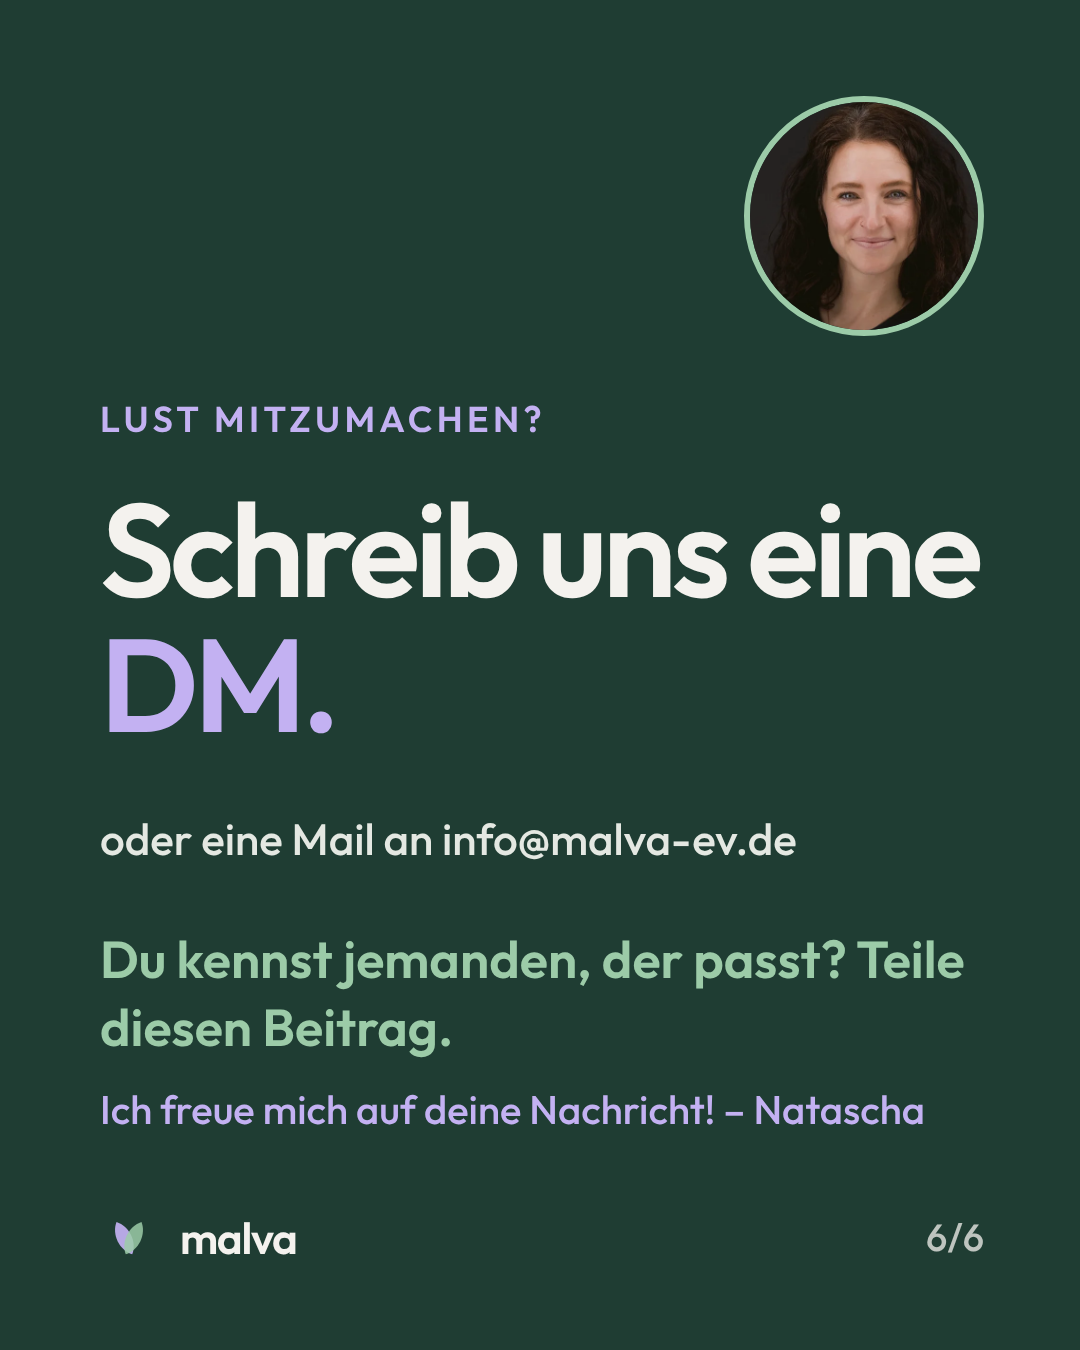
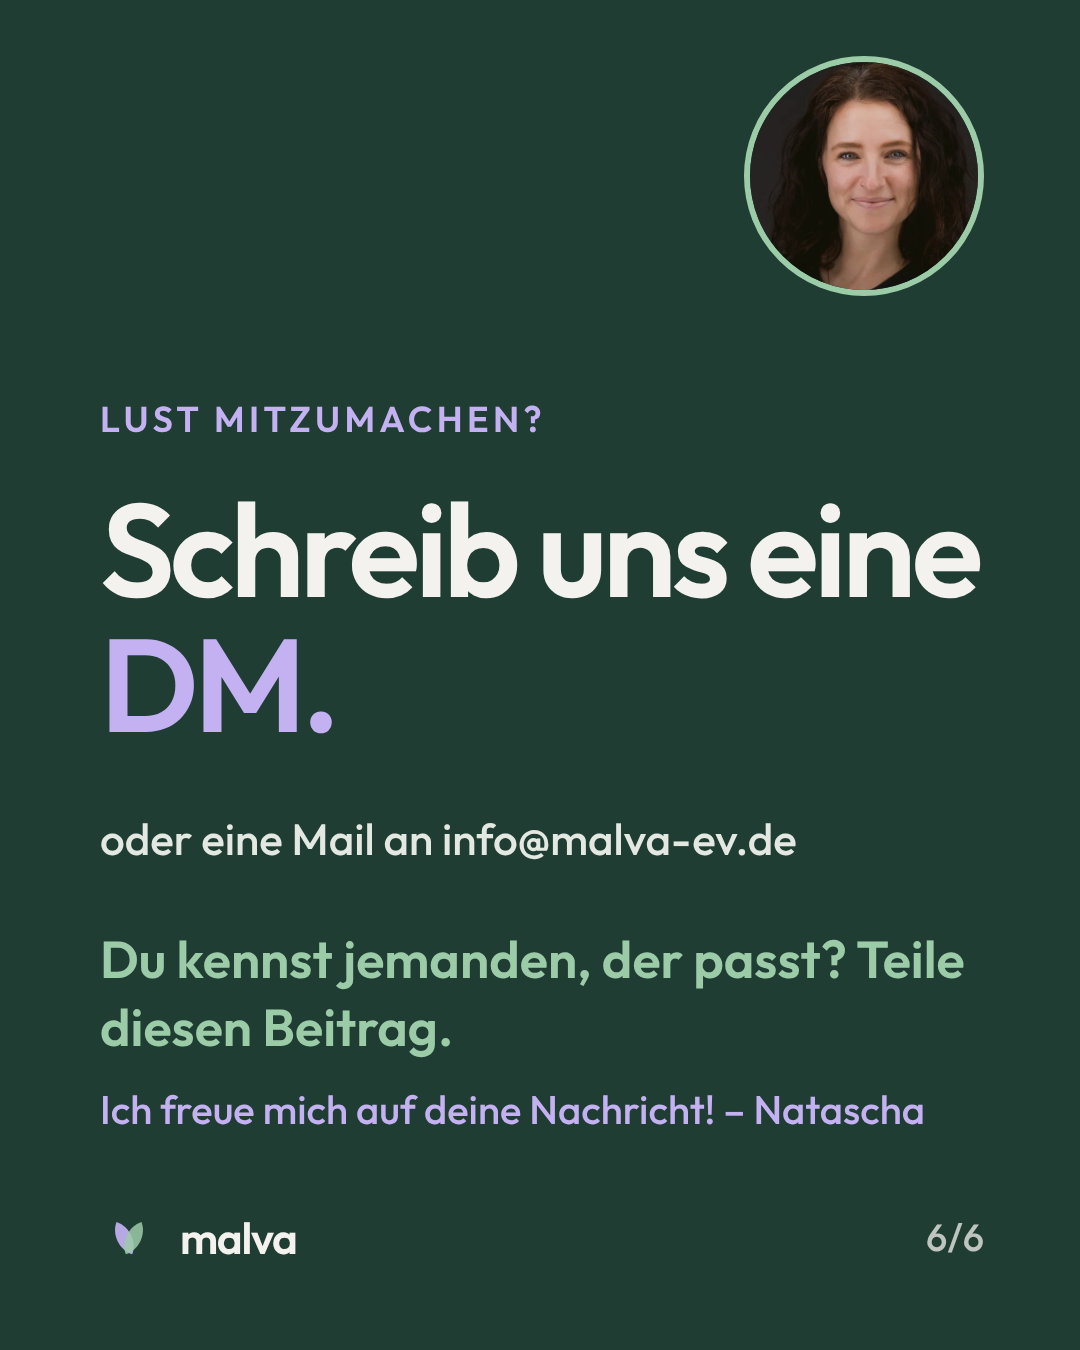
Partner-Post: Foto etwas höher
Claude-Session: https://claude.ai/code/session_015uEer6M6e5oi78ZvJtGjnt

Changed region(s): [[0.6722, 0.0311, 0.9167, 0.2489]]

diff --git a/malva-website/instagram/partner-gesucht/slides.html b/malva-website/instagram/partner-gesucht/slides.html
@@ -83,7 +83,7 @@ h2{font-weight:600;font-size:82px;line-height:1.12;letter-spacing:-.025em}
 </section>
 
 <section class="slide dark" id="s6" style="padding-top:330px">
-  <img class="photo" src="natascha-helbig-bunt-rund.webp" alt="" style="position:absolute;top:96px;right:96px;margin:0">
+  <img class="photo" src="natascha-helbig-bunt-rund.webp" alt="" style="position:absolute;top:56px;right:96px;margin:0">
   <p class="kicker">Lust mitzumachen?</p>
   <h1 style="font-size:132px">Schreib uns eine <span class="hl">DM.</span></h1>
   <p class="body">oder eine Mail an info@malva-ev.de</p>
